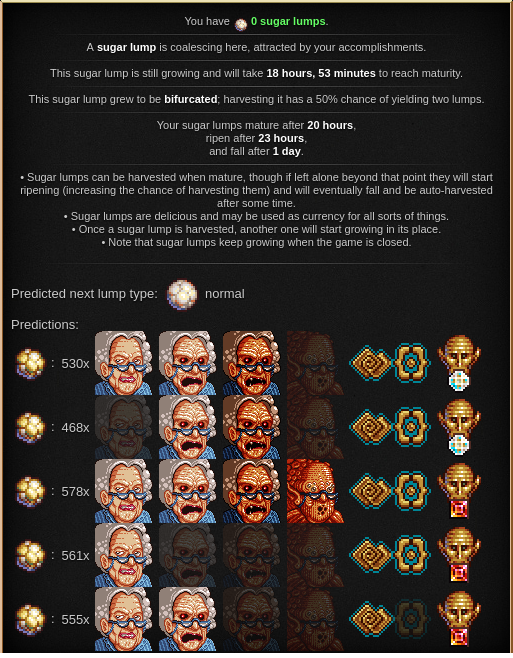
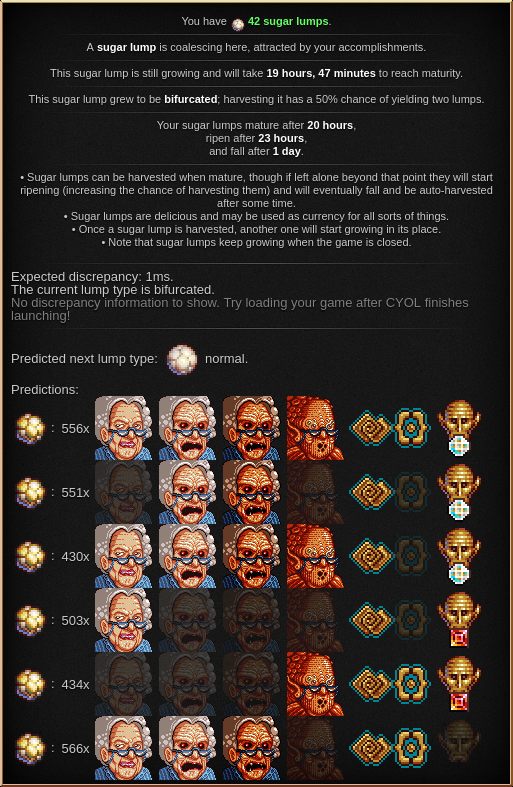
Update the documentation.

diff --git a/README.md b/README.md
@@ -115,25 +115,29 @@ and displays them in the lump tooltip
 (the box that appears when you hover the mouse over the sugar lump).
 The tooltip looks like this:
 
-![Modified lump tooltip](doc/tooltip.png "Modified lump tooltip")
+![Modified lump tooltip](doc/tooltip-with-grandmas.png "Modified lump tooltip")
 
 The "Predicted next lump type" line says that,
 if the player makes no changes to its save game,
 then the next lump type will be normal.
 
-The first line after that says that,
-if the player enters any of the three "positive" stages of the grandmapocalypse,
-sets the dragon aura to Dragon's Curve,
-and Rigidel on the diamond slot,
-then the next sugar lump will be meaty.
-If the dragon has already been trained to have two auras,
-the second aura must be set to _something other than_ Reality Bending.
+The first line says that,
+regardless of the stage of the grandmapocalypse,
+if the dragon has both Dragon's Curve and Reality Bending as active auras,
+and Rigidel is active on the ruby slot,
+then the next sugar lump type will be caramelized.
 
 The second line says that,
-regardless of the grandmapocalypse stage (even in the "stage 0", with appeased grandmas),
-if the player sets the dragon auras for Dragon's Curve _and_ Reality Bending
-and worships Rigidel in the Jade slot,
-then the sugar lump will grow to be caramelized.
+if the player progresses through the second or third "positive stages" of the grandmapocalypse
+(displeased and angered grandmas, respectively),
+the dragon has only Dragon's Curve as active aura,
+and Rigidel is active on the ruby slot,
+then the sugar lump will be meaty.
+
+Here only one of the two relevant auras (Dragon's Curve and Reality Bending) is needed,
+so this configuration works with a partially-trained dragon.
+If the dragon is fully trained,
+then the other aura must be set to something _other_ than reality bending.
 
 **All of this assumes, of course,
 that the discrepancy that happens when loading the save game
@@ -143,11 +147,9 @@ This value can be adjusted in the settings,
 but I believe most users will want that value to be 1.
 
 In the screen above,
-the current lump type is bifurcated,
-as can be seen in the fourth line of the tooltip.
-This line would normally only be displayed in the fourth growth stage of that lump,
-but to help with savescumming,
-this mod forces the game to always display that line (for non-normal lump types).
+the current lump type is normal,
+as can be seen in the second line of the paragraph above the predictions.
+This line will always say the type of the lump regardless of the growth stage.
 
 Only the predictions whose lump types were selected by the user are shown.
 The predictions which result in shortest lump growth time are shown first in the tooltip.
@@ -167,8 +169,8 @@ Sometimes,
 the predicted configuration will limit how far (or how early)
 in the grandmapocalypse the game can be;
 for example, in the last line of the tooltip above,
-only the first two stages of the grandmapocalypse
-(and Dragon's curve and rigidel on the Ruby slot)
+only the first three stages of the grandmapocalypse
+(and Dragon's curve and reality bending, and Rigidel unslotted)
 yield the chosen lump type.
 If you are past that stage,
 the only way of going back is to stop the grandmapocalypse
@@ -185,7 +187,7 @@ or by looking at the picture of the grandmas in your buildings list;
 they will match the ones displayed in the tooltip.
 
 Increasing the number of grandmas by 200 is equivalent to raising Rigidel one slot
-(unslotted to Jade, Jade to Ruby, or Ruby do Diamond).
+(unslotted to Jade, Jade to Ruby, or Ruby to Diamond).
 For example,
 in the image above,
 the third line is equivalent to using 378 grandmas instead of 578
